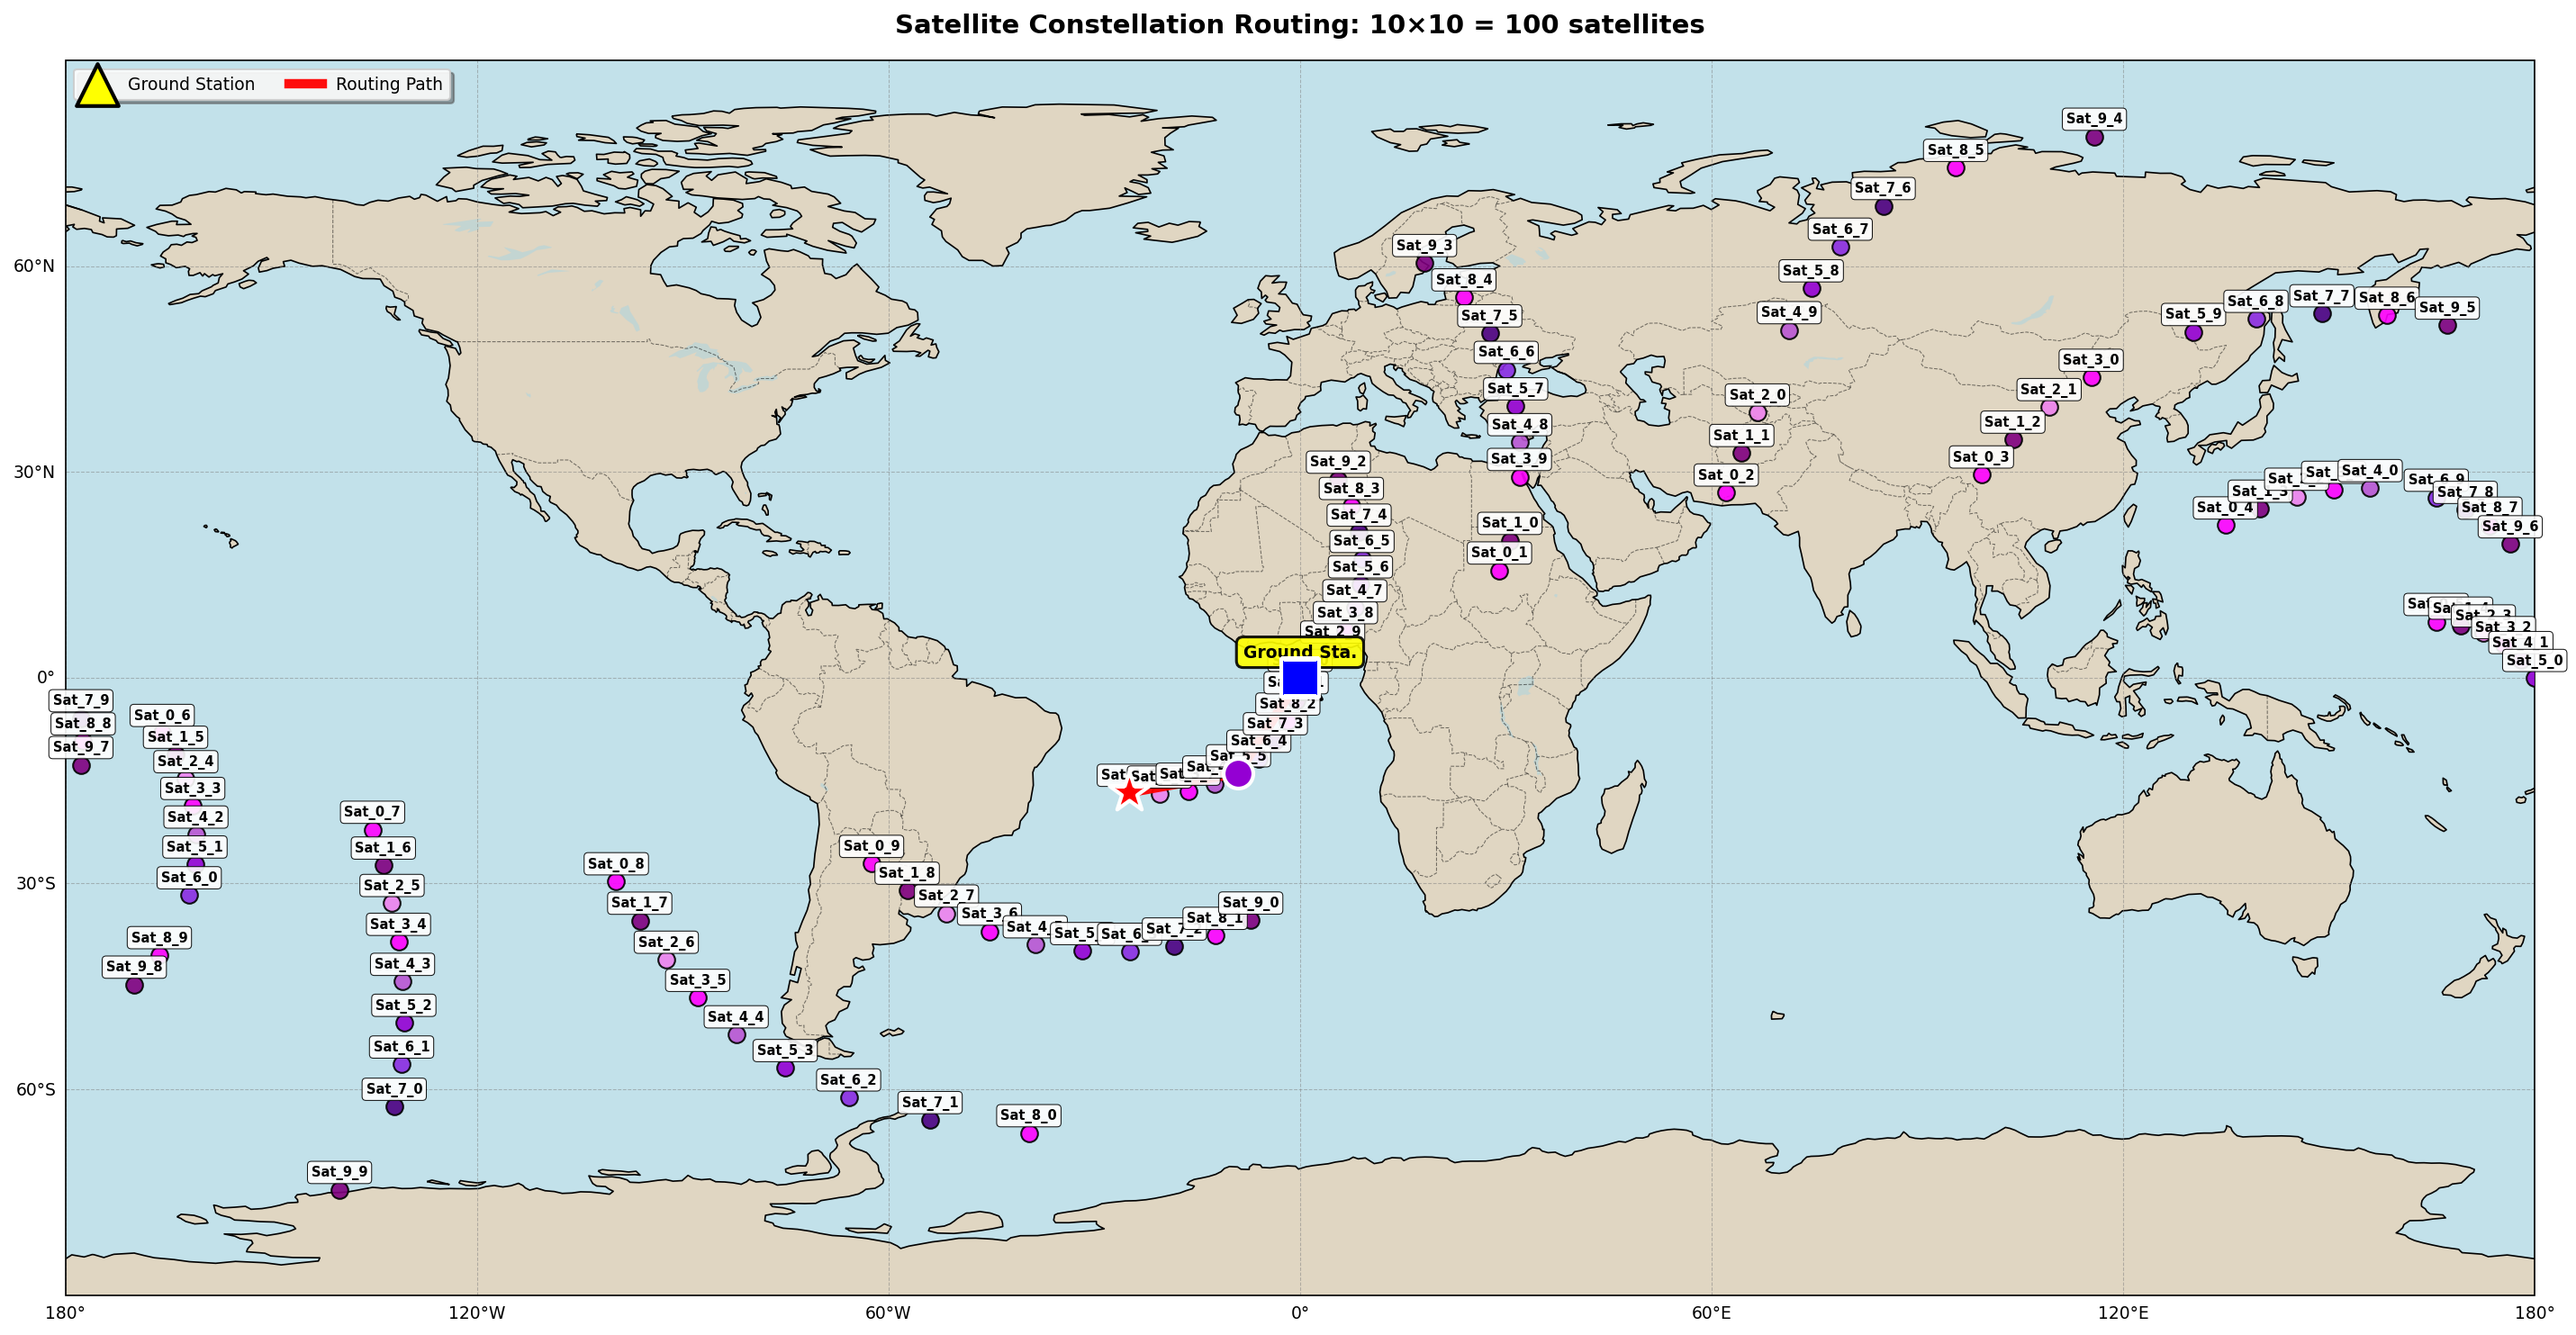
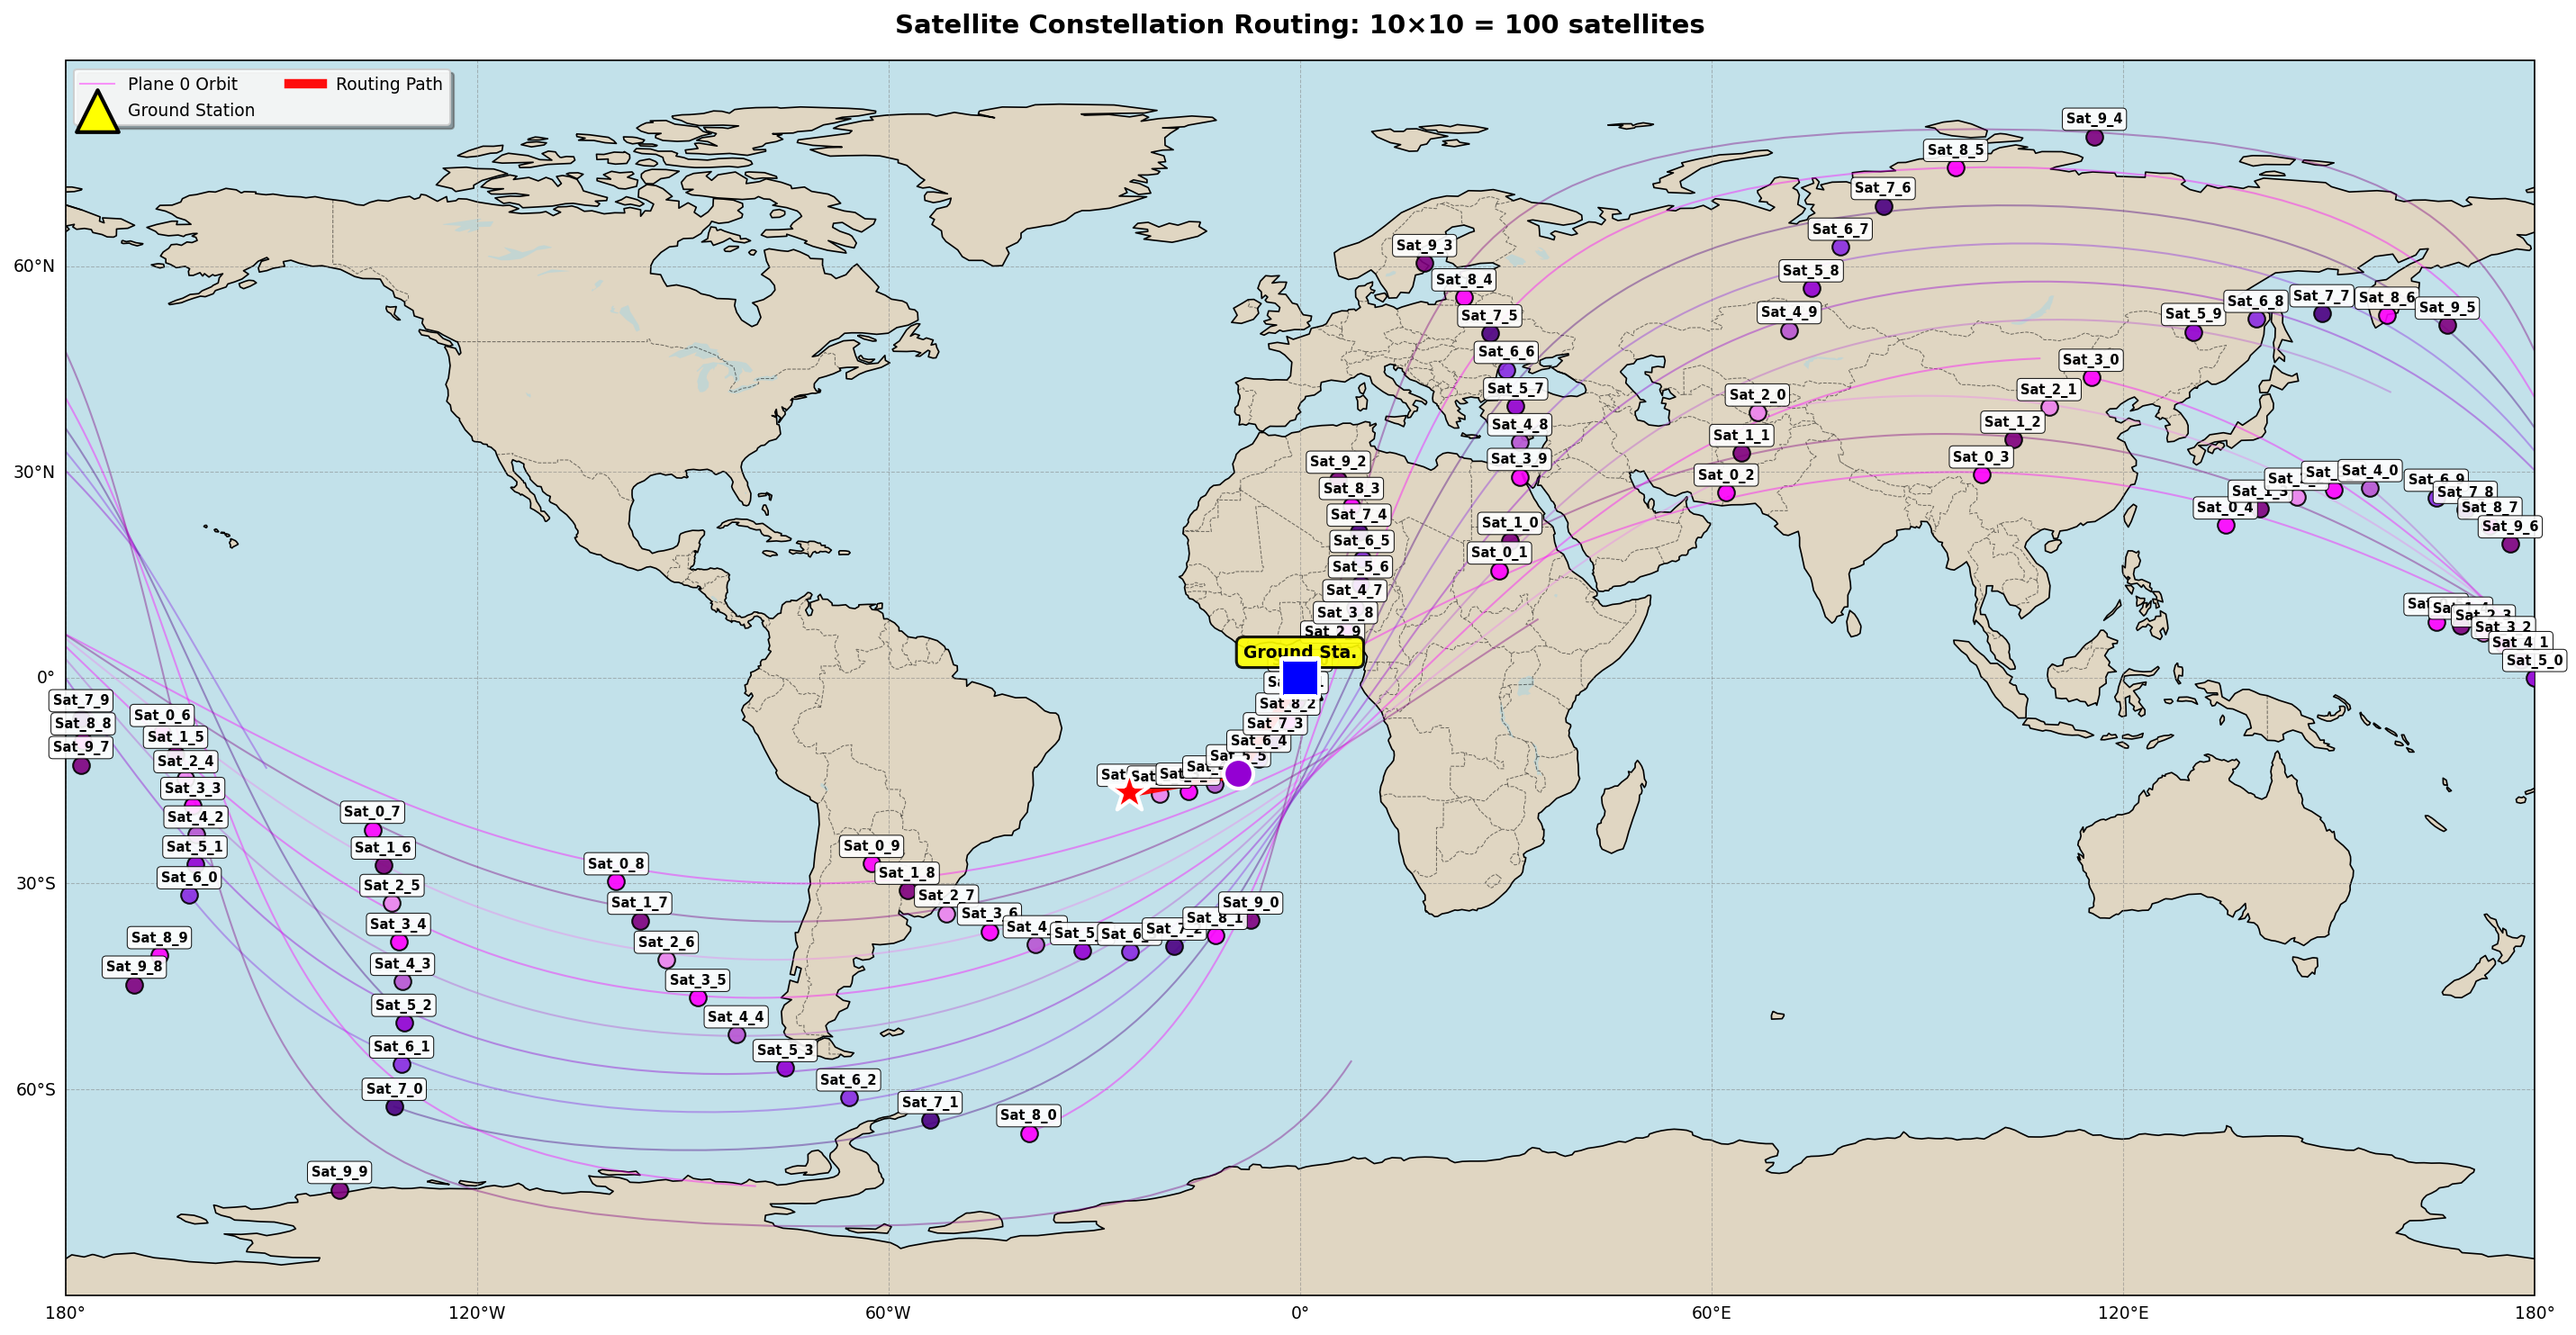
Add orbital path visualization to help students understand satellite movement

diff --git a/plots/visualize_topology.py b/plots/visualize_topology.py
@@ -531,8 +531,56 @@ def plot_sinusoidal_2d_routing(positions, topology, orbit_prop, packet_path=None
     sats_per_plane = orbit_prop.constellation['sats_per_plane'] if orbit_prop else 0
     total_sats = num_planes * sats_per_plane
     
-    # Ground tracks removed - they were confusing. Only showing current positions and routing path.
+    # Generate and plot orbital paths (ground tracks) for each satellite
+    # This helps students understand how satellites move in their orbits
     plane_colors = ['magenta', 'purple', 'violet', 'fuchsia', 'mediumorchid', 'darkviolet', 'blueviolet', 'indigo']
+    
+    # Generate ground tracks for satellites to show their orbital paths
+    # Show one satellite per plane to demonstrate orbital patterns without clutter
+    duration_minutes = 90  # Show ~1.5 orbits (LEO period ~90-100 minutes)
+    num_points = 200
+    time_points = np.linspace(0, duration_minutes * 60, num_points)
+    
+    # Get one satellite per plane for track visualization
+    node_ids = orbit_prop.get_node_ids() if orbit_prop else []
+    satellites_by_plane = {}
+    for node_id in node_ids:
+        if node_id.startswith('sat_'):
+            plane = get_plane_from_id(node_id)
+            if plane not in satellites_by_plane:
+                satellites_by_plane[plane] = node_id
+    
+    # Plot ground tracks for one satellite per plane
+    for plane, sat_id in satellites_by_plane.items():
+        plane_color = plane_colors[plane % len(plane_colors)]
+        
+        lats = []
+        lons = []
+        
+        for t in time_points:
+            pos = orbit_prop.get_positions(t)[sat_id]
+            lat, lon = ecef_to_latlon(pos)
+            lats.append(lat)
+            lons.append(lon)
+        
+        if lats and lons:
+            lons = np.array(lons)
+            lats = np.array(lats)
+            
+            # Unwrap longitude to avoid jumps
+            lons_unwrapped = np.unwrap(np.radians(lons))
+            lons_unwrapped = np.degrees(lons_unwrapped)
+            
+            # Plot orbital path (ground track) - subtle but visible
+            if use_cartopy:
+                ax.plot(lons_unwrapped, lats, color=plane_color, linewidth=1.0, alpha=0.4, 
+                       transform=ccrs.PlateCarree(), zorder=2,
+                       label=f'Plane {plane} Orbit' if plane == 0 else '')
+            else:
+                x_track = lons_unwrapped * np.cos(np.radians(lats))
+                y_track = lats
+                ax.plot(x_track, y_track, color=plane_color, linewidth=1.0, alpha=0.4, 
+                       zorder=2, label=f'Plane {plane} Orbit' if plane == 0 else '')
     
     # Plot current satellite positions with labels (like reference image)
     node_latlon = {}

diff --git a/README.md b/README.md
@@ -58,11 +58,17 @@ The following visualization shows a **10×10 constellation (100 satellites)** on
    - `X` = Orbital plane number (0-9 for 10 planes)
    - `Y` = Satellite number within that plane (0-9 for 10 satellites per plane)
 
-2. **Ground Station (Yellow Triangle)**: The source of all traffic, located at the equator (0° latitude, 0° longitude)
+2. **Orbital Paths (Colored Lines)**: Each colored line shows the **ground track** (orbital path projected onto Earth) for one satellite from each plane over ~90 minutes. These lines demonstrate:
+   - How satellites move in their orbits
+   - The sinusoidal pattern of ground tracks
+   - Different orbital inclinations create different track patterns
+   - Each plane has a distinct color to show orbital plane separation
 
-3. **Routing Path (Red Line)**: Shows how packets travel from ground station to destination satellite through multiple hops
+3. **Ground Station (Yellow Triangle)**: The source of all traffic, located at the equator (0° latitude, 0° longitude)
 
-4. **World Map**: Provides geographical context showing where satellites are positioned relative to Earth's surface
+4. **Routing Path (Red Line)**: Shows how packets travel from ground station to destination satellite through multiple hops
+
+5. **World Map**: Provides geographical context showing where satellites are positioned relative to Earth's surface
 
 #### How Links Are Formed
 
